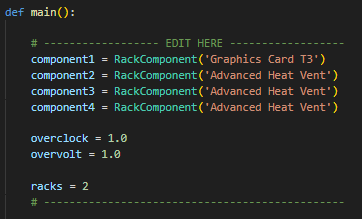
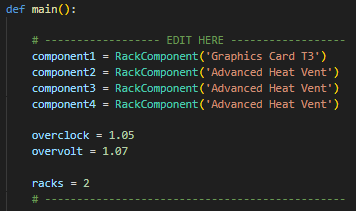
Updated Names

diff --git a/QuantumComputer.py b/QuantumComputer.py
@@ -24,7 +24,7 @@ class RackComponent:
             'Nanoprocessor Mainframe' : [16, 5000, 12, -0.20], # LuV
             'High Energy Flow Circuit' : [24, 10000, 16, -0.25], # Other
             'Graphics Card T3' : [130, 4500, 111, -0.30], # Other
-            'Accelerated Processing Unit T3' : [1590, 9000, 1006, -0.30], # Other
+            'APU Creative' : [1590, 9000, 1006, -0.30], # Other
 
             'Heat Vent' : [0, 1000, -1, 10],
             'Reactor Heat Vent' : [0, 2500, -1, 20],
@@ -117,8 +117,8 @@ def main():
     component3 = RackComponent('Advanced Heat Vent')
     component4 = RackComponent('Advanced Heat Vent')
 
-    overclock = 1.0
-    overvolt = 1.0
+    overclock = 1.05
+    overvolt = 1.07
 
     racks = 2
     # -----------------------------------------------
